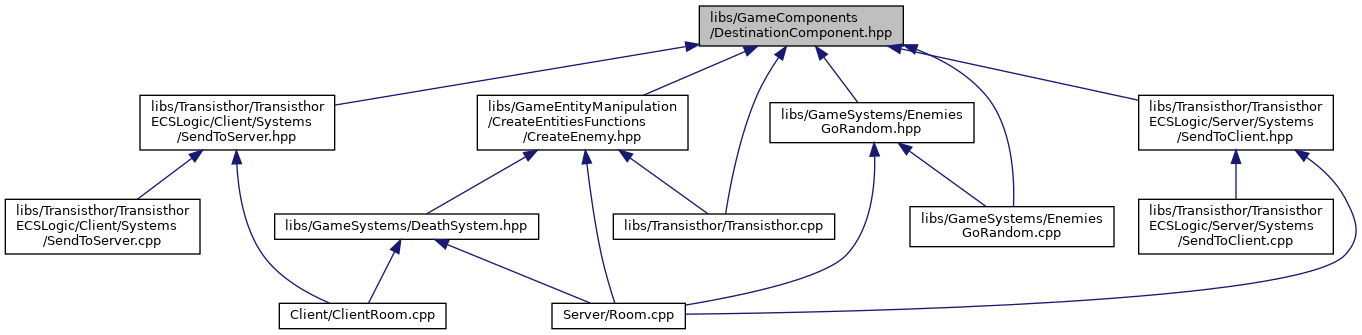
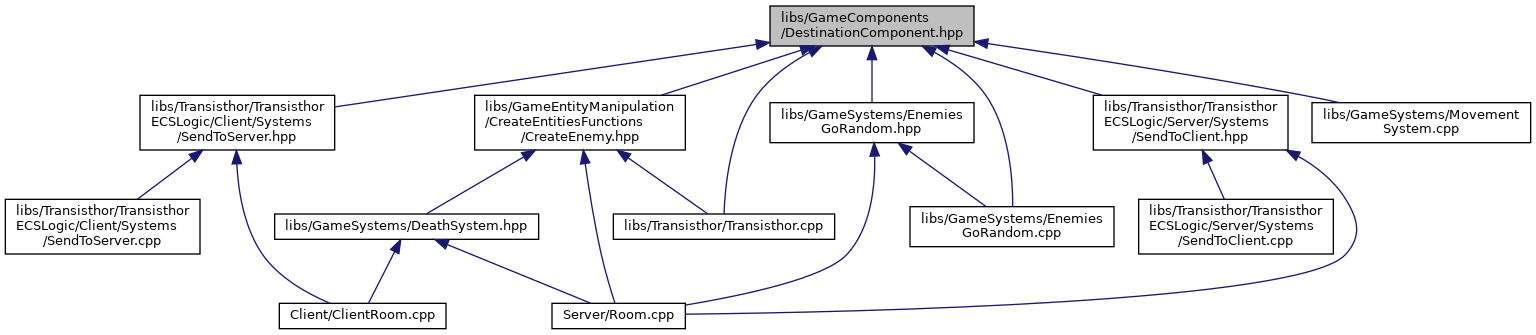
Deploying to gh-pages from @ R-Type-Epitech-Nantes/R-Type@fd5981e4867873d81f6ff740246fc17377577f86 🚀

diff --git a/dir_000016_000012.html b/dir_000016_000012.html
@@ -83,7 +83,7 @@ $(document).ready(function(){initNavTree('dir_667f9d03eae627cf53194c8a15b5bcd6.h
 </div>
 
 <div class="contents">
-<h3>GameSystems &rarr; GameComponents Relation</h3><table class="dirtab"><tr class="dirtab"><th class="dirtab">File in libs/GameSystems</th><th class="dirtab">Includes file in libs/GameComponents</th></tr><tr class="dirtab"><td class="dirtab"><a class="el" href="_collidable_system_8cpp.html">CollidableSystem.cpp</a></td><td class="dirtab"><a class="el" href="_allied_projectile_component_8hpp.html">AlliedProjectileComponent.hpp</a></td></tr><tr class="dirtab"><td class="dirtab"><a class="el" href="_collidable_system_8cpp.html">CollidableSystem.cpp</a></td><td class="dirtab"><a class="el" href="_collidable_component_8hpp.html">CollidableComponent.hpp</a></td></tr><tr class="dirtab"><td class="dirtab"><a class="el" href="_collidable_system_8cpp.html">CollidableSystem.cpp</a></td><td class="dirtab"><a class="el" href="_damage_component_8hpp.html">DamageComponent.hpp</a></td></tr><tr class="dirtab"><td class="dirtab"><a class="el" href="_collidable_system_8cpp.html">CollidableSystem.cpp</a></td><td class="dirtab"><a class="el" href="_enemy_component_8hpp.html">EnemyComponent.hpp</a></td></tr><tr class="dirtab"><td class="dirtab"><a class="el" href="_collidable_system_8cpp.html">CollidableSystem.cpp</a></td><td class="dirtab"><a class="el" href="_enemy_projectile_component_8hpp.html">EnemyProjectileComponent.hpp</a></td></tr><tr class="dirtab"><td class="dirtab"><a class="el" href="_collidable_system_8cpp.html">CollidableSystem.cpp</a></td><td class="dirtab"><a class="el" href="_life_component_8hpp.html">LifeComponent.hpp</a></td></tr><tr class="dirtab"><td class="dirtab"><a class="el" href="_collidable_system_8cpp.html">CollidableSystem.cpp</a></td><td class="dirtab"><a class="el" href="_obstacle_component_8hpp.html">ObstacleComponent.hpp</a></td></tr><tr class="dirtab"><td class="dirtab"><a class="el" href="_collidable_system_8cpp.html">CollidableSystem.cpp</a></td><td class="dirtab"><a class="el" href="_player_component_8hpp.html">PlayerComponent.hpp</a></td></tr><tr class="dirtab"><td class="dirtab"><a class="el" href="_collidable_system_8hpp.html">CollidableSystem.hpp</a></td><td class="dirtab"><a class="el" href="_position_component_8hpp.html">PositionComponent.hpp</a></td></tr><tr class="dirtab"><td class="dirtab"><a class="el" href="_collidable_system_8hpp.html">CollidableSystem.hpp</a></td><td class="dirtab"><a class="el" href="_size_component_8hpp.html">SizeComponent.hpp</a></td></tr><tr class="dirtab"><td class="dirtab"><a class="el" href="_death_life_system_8hpp.html">DeathLifeSystem.hpp</a></td><td class="dirtab"><a class="el" href="_death_component_8hpp.html">DeathComponent.hpp</a></td></tr><tr class="dirtab"><td class="dirtab"><a class="el" href="_death_life_system_8hpp.html">DeathLifeSystem.hpp</a></td><td class="dirtab"><a class="el" href="_life_component_8hpp.html">LifeComponent.hpp</a></td></tr><tr class="dirtab"><td class="dirtab"><a class="el" href="_death_system_8hpp.html">DeathSystem.hpp</a></td><td class="dirtab"><a class="el" href="_death_component_8hpp.html">DeathComponent.hpp</a></td></tr><tr class="dirtab"><td class="dirtab"><a class="el" href="_decrease_life_time_system_8hpp.html">DecreaseLifeTimeSystem.hpp</a></td><td class="dirtab"><a class="el" href="_death_component_8hpp.html">DeathComponent.hpp</a></td></tr><tr class="dirtab"><td class="dirtab"><a class="el" href="_decrease_life_time_system_8hpp.html">DecreaseLifeTimeSystem.hpp</a></td><td class="dirtab"><a class="el" href="_life_time_component_8hpp.html">LifeTimeComponent.hpp</a></td></tr><tr class="dirtab"><td class="dirtab"><a class="el" href="_enemies_go_random_8cpp.html">EnemiesGoRandom.cpp</a></td><td class="dirtab"><a class="el" href="_destination_component_8hpp.html">DestinationComponent.hpp</a></td></tr><tr class="dirtab"><td class="dirtab"><a class="el" href="_enemies_go_random_8cpp.html">EnemiesGoRandom.cpp</a></td><td class="dirtab"><a class="el" href="_enemy_component_8hpp.html">EnemyComponent.hpp</a></td></tr><tr class="dirtab"><td class="dirtab"><a class="el" href="_enemies_go_random_8cpp.html">EnemiesGoRandom.cpp</a></td><td class="dirtab"><a class="el" href="_position_component_8hpp.html">PositionComponent.hpp</a></td></tr><tr class="dirtab"><td class="dirtab"><a class="el" href="_enemies_go_random_8cpp.html">EnemiesGoRandom.cpp</a></td><td class="dirtab"><a class="el" href="_velocity_component_8hpp.html">VelocityComponent.hpp</a></td></tr><tr class="dirtab"><td class="dirtab"><a class="el" href="_enemies_go_random_8hpp.html">EnemiesGoRandom.hpp</a></td><td class="dirtab"><a class="el" href="_destination_component_8hpp.html">DestinationComponent.hpp</a></td></tr><tr class="dirtab"><td class="dirtab"><a class="el" href="_enemies_go_random_8hpp.html">EnemiesGoRandom.hpp</a></td><td class="dirtab"><a class="el" href="_enemy_component_8hpp.html">EnemyComponent.hpp</a></td></tr><tr class="dirtab"><td class="dirtab"><a class="el" href="_enemies_go_random_8hpp.html">EnemiesGoRandom.hpp</a></td><td class="dirtab"><a class="el" href="_position_component_8hpp.html">PositionComponent.hpp</a></td></tr><tr class="dirtab"><td class="dirtab"><a class="el" href="_enemies_go_random_8hpp.html">EnemiesGoRandom.hpp</a></td><td class="dirtab"><a class="el" href="_velocity_component_8hpp.html">VelocityComponent.hpp</a></td></tr><tr class="dirtab"><td class="dirtab"><a class="el" href="_enemy_shoot_system_8cpp.html">EnemyShootSystem.cpp</a></td><td class="dirtab"><a class="el" href="_enemy_component_8hpp.html">EnemyComponent.hpp</a></td></tr><tr class="dirtab"><td class="dirtab"><a class="el" href="_enemy_shoot_system_8cpp.html">EnemyShootSystem.cpp</a></td><td class="dirtab"><a class="el" href="_shooting_frequency_component_8hpp.html">ShootingFrequencyComponent.hpp</a></td></tr><tr class="dirtab"><td class="dirtab"><a class="el" href="_life_time_death_system_8hpp.html">LifeTimeDeathSystem.hpp</a></td><td class="dirtab"><a class="el" href="_death_component_8hpp.html">DeathComponent.hpp</a></td></tr><tr class="dirtab"><td class="dirtab"><a class="el" href="_life_time_death_system_8hpp.html">LifeTimeDeathSystem.hpp</a></td><td class="dirtab"><a class="el" href="_life_time_component_8hpp.html">LifeTimeComponent.hpp</a></td></tr><tr class="dirtab"><td class="dirtab"><a class="el" href="_movement_system_8cpp.html">MovementSystem.cpp</a></td><td class="dirtab"><a class="el" href="_position_component_8hpp.html">PositionComponent.hpp</a></td></tr><tr class="dirtab"><td class="dirtab"><a class="el" href="_movement_system_8cpp.html">MovementSystem.cpp</a></td><td class="dirtab"><a class="el" href="_velocity_component_8hpp.html">VelocityComponent.hpp</a></td></tr><tr class="dirtab"><td class="dirtab"><a class="el" href="_movement_system_8hpp.html">MovementSystem.hpp</a></td><td class="dirtab"><a class="el" href="_position_component_8hpp.html">PositionComponent.hpp</a></td></tr><tr class="dirtab"><td class="dirtab"><a class="el" href="_movement_system_8hpp.html">MovementSystem.hpp</a></td><td class="dirtab"><a class="el" href="_velocity_component_8hpp.html">VelocityComponent.hpp</a></td></tr></table></div><!-- contents -->
+<h3>GameSystems &rarr; GameComponents Relation</h3><table class="dirtab"><tr class="dirtab"><th class="dirtab">File in libs/GameSystems</th><th class="dirtab">Includes file in libs/GameComponents</th></tr><tr class="dirtab"><td class="dirtab"><a class="el" href="_collidable_system_8cpp.html">CollidableSystem.cpp</a></td><td class="dirtab"><a class="el" href="_allied_projectile_component_8hpp.html">AlliedProjectileComponent.hpp</a></td></tr><tr class="dirtab"><td class="dirtab"><a class="el" href="_collidable_system_8cpp.html">CollidableSystem.cpp</a></td><td class="dirtab"><a class="el" href="_collidable_component_8hpp.html">CollidableComponent.hpp</a></td></tr><tr class="dirtab"><td class="dirtab"><a class="el" href="_collidable_system_8cpp.html">CollidableSystem.cpp</a></td><td class="dirtab"><a class="el" href="_damage_component_8hpp.html">DamageComponent.hpp</a></td></tr><tr class="dirtab"><td class="dirtab"><a class="el" href="_collidable_system_8cpp.html">CollidableSystem.cpp</a></td><td class="dirtab"><a class="el" href="_enemy_component_8hpp.html">EnemyComponent.hpp</a></td></tr><tr class="dirtab"><td class="dirtab"><a class="el" href="_collidable_system_8cpp.html">CollidableSystem.cpp</a></td><td class="dirtab"><a class="el" href="_enemy_projectile_component_8hpp.html">EnemyProjectileComponent.hpp</a></td></tr><tr class="dirtab"><td class="dirtab"><a class="el" href="_collidable_system_8cpp.html">CollidableSystem.cpp</a></td><td class="dirtab"><a class="el" href="_life_component_8hpp.html">LifeComponent.hpp</a></td></tr><tr class="dirtab"><td class="dirtab"><a class="el" href="_collidable_system_8cpp.html">CollidableSystem.cpp</a></td><td class="dirtab"><a class="el" href="_obstacle_component_8hpp.html">ObstacleComponent.hpp</a></td></tr><tr class="dirtab"><td class="dirtab"><a class="el" href="_collidable_system_8cpp.html">CollidableSystem.cpp</a></td><td class="dirtab"><a class="el" href="_player_component_8hpp.html">PlayerComponent.hpp</a></td></tr><tr class="dirtab"><td class="dirtab"><a class="el" href="_collidable_system_8hpp.html">CollidableSystem.hpp</a></td><td class="dirtab"><a class="el" href="_position_component_8hpp.html">PositionComponent.hpp</a></td></tr><tr class="dirtab"><td class="dirtab"><a class="el" href="_collidable_system_8hpp.html">CollidableSystem.hpp</a></td><td class="dirtab"><a class="el" href="_size_component_8hpp.html">SizeComponent.hpp</a></td></tr><tr class="dirtab"><td class="dirtab"><a class="el" href="_death_life_system_8hpp.html">DeathLifeSystem.hpp</a></td><td class="dirtab"><a class="el" href="_death_component_8hpp.html">DeathComponent.hpp</a></td></tr><tr class="dirtab"><td class="dirtab"><a class="el" href="_death_life_system_8hpp.html">DeathLifeSystem.hpp</a></td><td class="dirtab"><a class="el" href="_life_component_8hpp.html">LifeComponent.hpp</a></td></tr><tr class="dirtab"><td class="dirtab"><a class="el" href="_death_system_8hpp.html">DeathSystem.hpp</a></td><td class="dirtab"><a class="el" href="_death_component_8hpp.html">DeathComponent.hpp</a></td></tr><tr class="dirtab"><td class="dirtab"><a class="el" href="_decrease_life_time_system_8hpp.html">DecreaseLifeTimeSystem.hpp</a></td><td class="dirtab"><a class="el" href="_death_component_8hpp.html">DeathComponent.hpp</a></td></tr><tr class="dirtab"><td class="dirtab"><a class="el" href="_decrease_life_time_system_8hpp.html">DecreaseLifeTimeSystem.hpp</a></td><td class="dirtab"><a class="el" href="_life_time_component_8hpp.html">LifeTimeComponent.hpp</a></td></tr><tr class="dirtab"><td class="dirtab"><a class="el" href="_enemies_go_random_8cpp.html">EnemiesGoRandom.cpp</a></td><td class="dirtab"><a class="el" href="_destination_component_8hpp.html">DestinationComponent.hpp</a></td></tr><tr class="dirtab"><td class="dirtab"><a class="el" href="_enemies_go_random_8cpp.html">EnemiesGoRandom.cpp</a></td><td class="dirtab"><a class="el" href="_enemy_component_8hpp.html">EnemyComponent.hpp</a></td></tr><tr class="dirtab"><td class="dirtab"><a class="el" href="_enemies_go_random_8cpp.html">EnemiesGoRandom.cpp</a></td><td class="dirtab"><a class="el" href="_position_component_8hpp.html">PositionComponent.hpp</a></td></tr><tr class="dirtab"><td class="dirtab"><a class="el" href="_enemies_go_random_8cpp.html">EnemiesGoRandom.cpp</a></td><td class="dirtab"><a class="el" href="_velocity_component_8hpp.html">VelocityComponent.hpp</a></td></tr><tr class="dirtab"><td class="dirtab"><a class="el" href="_enemies_go_random_8hpp.html">EnemiesGoRandom.hpp</a></td><td class="dirtab"><a class="el" href="_destination_component_8hpp.html">DestinationComponent.hpp</a></td></tr><tr class="dirtab"><td class="dirtab"><a class="el" href="_enemies_go_random_8hpp.html">EnemiesGoRandom.hpp</a></td><td class="dirtab"><a class="el" href="_enemy_component_8hpp.html">EnemyComponent.hpp</a></td></tr><tr class="dirtab"><td class="dirtab"><a class="el" href="_enemies_go_random_8hpp.html">EnemiesGoRandom.hpp</a></td><td class="dirtab"><a class="el" href="_position_component_8hpp.html">PositionComponent.hpp</a></td></tr><tr class="dirtab"><td class="dirtab"><a class="el" href="_enemies_go_random_8hpp.html">EnemiesGoRandom.hpp</a></td><td class="dirtab"><a class="el" href="_velocity_component_8hpp.html">VelocityComponent.hpp</a></td></tr><tr class="dirtab"><td class="dirtab"><a class="el" href="_enemy_shoot_system_8cpp.html">EnemyShootSystem.cpp</a></td><td class="dirtab"><a class="el" href="_enemy_component_8hpp.html">EnemyComponent.hpp</a></td></tr><tr class="dirtab"><td class="dirtab"><a class="el" href="_enemy_shoot_system_8cpp.html">EnemyShootSystem.cpp</a></td><td class="dirtab"><a class="el" href="_shooting_frequency_component_8hpp.html">ShootingFrequencyComponent.hpp</a></td></tr><tr class="dirtab"><td class="dirtab"><a class="el" href="_life_time_death_system_8hpp.html">LifeTimeDeathSystem.hpp</a></td><td class="dirtab"><a class="el" href="_death_component_8hpp.html">DeathComponent.hpp</a></td></tr><tr class="dirtab"><td class="dirtab"><a class="el" href="_life_time_death_system_8hpp.html">LifeTimeDeathSystem.hpp</a></td><td class="dirtab"><a class="el" href="_life_time_component_8hpp.html">LifeTimeComponent.hpp</a></td></tr><tr class="dirtab"><td class="dirtab"><a class="el" href="_movement_system_8cpp.html">MovementSystem.cpp</a></td><td class="dirtab"><a class="el" href="_destination_component_8hpp.html">DestinationComponent.hpp</a></td></tr><tr class="dirtab"><td class="dirtab"><a class="el" href="_movement_system_8cpp.html">MovementSystem.cpp</a></td><td class="dirtab"><a class="el" href="_enemy_component_8hpp.html">EnemyComponent.hpp</a></td></tr><tr class="dirtab"><td class="dirtab"><a class="el" href="_movement_system_8cpp.html">MovementSystem.cpp</a></td><td class="dirtab"><a class="el" href="_player_component_8hpp.html">PlayerComponent.hpp</a></td></tr><tr class="dirtab"><td class="dirtab"><a class="el" href="_movement_system_8cpp.html">MovementSystem.cpp</a></td><td class="dirtab"><a class="el" href="_position_component_8hpp.html">PositionComponent.hpp</a></td></tr><tr class="dirtab"><td class="dirtab"><a class="el" href="_movement_system_8cpp.html">MovementSystem.cpp</a></td><td class="dirtab"><a class="el" href="_velocity_component_8hpp.html">VelocityComponent.hpp</a></td></tr><tr class="dirtab"><td class="dirtab"><a class="el" href="_movement_system_8hpp.html">MovementSystem.hpp</a></td><td class="dirtab"><a class="el" href="_position_component_8hpp.html">PositionComponent.hpp</a></td></tr><tr class="dirtab"><td class="dirtab"><a class="el" href="_movement_system_8hpp.html">MovementSystem.hpp</a></td><td class="dirtab"><a class="el" href="_velocity_component_8hpp.html">VelocityComponent.hpp</a></td></tr></table></div><!-- contents -->
 </div><!-- doc-content -->
 <!-- start footer part -->
 <div id="nav-path" class="navpath"><!-- id is needed for treeview function! -->

diff --git a/_movement_system_8cpp.html b/_movement_system_8cpp.html
@@ -90,42 +90,48 @@ $(document).ready(function(){initNavTree('_movement_system_8cpp.html',''); initR
 <div class="textblock"><code>#include &quot;<a class="el" href="_movement_system_8hpp_source.html">MovementSystem.hpp</a>&quot;</code><br />
 <code>#include &quot;<a class="el" href="_position_component_8hpp_source.html">GameComponents/PositionComponent.hpp</a>&quot;</code><br />
 <code>#include &quot;<a class="el" href="_velocity_component_8hpp_source.html">GameComponents/VelocityComponent.hpp</a>&quot;</code><br />
+<code>#include &quot;<a class="el" href="_player_component_8hpp_source.html">GameComponents/PlayerComponent.hpp</a>&quot;</code><br />
+<code>#include &quot;<a class="el" href="_enemy_component_8hpp_source.html">GameComponents/EnemyComponent.hpp</a>&quot;</code><br />
+<code>#include &quot;<a class="el" href="_destination_component_8hpp_source.html">GameComponents/DestinationComponent.hpp</a>&quot;</code><br />
 <code>#include &quot;<a class="el" href="_game_clock_8hpp_source.html">GameSharedResources/GameClock.hpp</a>&quot;</code><br />
 </div><div class="textblock"><div class="dynheader">
 Include dependency graph for MovementSystem.cpp:</div>
 <div class="dyncontent">
 <div class="center"><img src="_movement_system_8cpp__incl.png" border="0" usemap="#libs_2_game_systems_2_movement_system_8cpp" alt=""/></div>
 <map name="libs_2_game_systems_2_movement_system_8cpp" id="libs_2_game_systems_2_movement_system_8cpp">
-<area shape="rect" title=" " alt="" coords="386,5,605,47"/>
-<area shape="rect" href="_movement_system_8hpp.html" title=" " alt="" coords="349,102,519,129"/>
-<area shape="rect" href="_position_component_8hpp.html" title=" " alt="" coords="17,184,320,211"/>
-<area shape="rect" href="_velocity_component_8hpp.html" title=" " alt="" coords="344,184,647,211"/>
-<area shape="rect" href="_game_clock_8hpp.html" title=" " alt="" coords="1169,95,1342,136"/>
-<area shape="rect" href="_world_8hpp.html" title=" " alt="" coords="722,184,850,211"/>
-<area shape="rect" href="_component_8hpp.html" title=" " alt="" coords="5,333,209,360"/>
-<area shape="rect" title=" " alt="" coords="74,408,141,435"/>
-<area shape="rect" title=" " alt="" coords="207,408,287,435"/>
-<area shape="rect" title=" " alt="" coords="751,333,821,360"/>
-<area shape="rect" title=" " alt="" coords="1486,483,1537,509"/>
-<area shape="rect" title=" " alt="" coords="819,408,897,435"/>
-<area shape="rect" title=" " alt="" coords="285,333,372,360"/>
-<area shape="rect" title=" " alt="" coords="1060,483,1123,509"/>
-<area shape="rect" href="_entity_8hpp.html" title=" " alt="" coords="542,259,670,285"/>
-<area shape="rect" title=" " alt="" coords="603,333,727,360"/>
-<area shape="rect" href="_resource_8hpp.html" title=" " alt="" coords="1537,259,1712,285"/>
-<area shape="rect" href="_system_8hpp.html" title=" " alt="" coords="366,259,518,285"/>
-<area shape="rect" href="_transisthor_8hpp.html" title=" " alt="" coords="922,259,1117,285"/>
-<area shape="rect" title=" " alt="" coords="447,333,527,360"/>
-<area shape="rect" href="_communicator_8hpp.html" title=" " alt="" coords="897,333,1142,360"/>
-<area shape="rect" href="_error_8hpp.html" title=" " alt="" coords="1310,333,1425,360"/>
-<area shape="rect" href="_client_8hpp.html" title=" " alt="" coords="947,483,1035,509"/>
-<area shape="rect" href="_receiver_8hpp.html" title=" " alt="" coords="1193,408,1299,435"/>
-<area shape="rect" href="_sender_8hpp.html" title=" " alt="" coords="972,408,1067,435"/>
-<area shape="rect" title=" " alt="" coords="1190,557,1249,584"/>
-<area shape="rect" title=" " alt="" coords="1147,483,1270,509"/>
-<area shape="rect" title=" " alt="" coords="1294,483,1411,509"/>
-<area shape="rect" title=" " alt="" coords="1324,408,1411,435"/>
-<area shape="rect" title=" " alt="" coords="1293,184,1359,211"/>
+<area shape="rect" title=" " alt="" coords="597,5,815,47"/>
+<area shape="rect" href="_movement_system_8hpp.html" title=" " alt="" coords="621,102,791,129"/>
+<area shape="rect" href="_position_component_8hpp.html" title=" " alt="" coords="568,184,871,211"/>
+<area shape="rect" href="_velocity_component_8hpp.html" title=" " alt="" coords="241,184,544,211"/>
+<area shape="rect" href="_player_component_8hpp.html" title=" " alt="" coords="895,184,1186,211"/>
+<area shape="rect" href="_enemy_component_8hpp.html" title=" " alt="" coords="5,102,300,129"/>
+<area shape="rect" href="_destination_component_8hpp.html" title=" " alt="" coords="324,95,547,136"/>
+<area shape="rect" href="_game_clock_8hpp.html" title=" " alt="" coords="1505,95,1678,136"/>
+<area shape="rect" href="_world_8hpp.html" title=" " alt="" coords="1210,184,1338,211"/>
+<area shape="rect" href="_component_8hpp.html" title=" " alt="" coords="360,333,564,360"/>
+<area shape="rect" title=" " alt="" coords="429,408,495,435"/>
+<area shape="rect" title=" " alt="" coords="562,408,642,435"/>
+<area shape="rect" title=" " alt="" coords="737,333,808,360"/>
+<area shape="rect" title=" " alt="" coords="1651,483,1702,509"/>
+<area shape="rect" title=" " alt="" coords="1095,408,1173,435"/>
+<area shape="rect" title=" " alt="" coords="1039,333,1125,360"/>
+<area shape="rect" title=" " alt="" coords="1164,483,1227,509"/>
+<area shape="rect" href="_entity_8hpp.html" title=" " alt="" coords="931,259,1059,285"/>
+<area shape="rect" title=" " alt="" coords="1149,333,1273,360"/>
+<area shape="rect" href="_resource_8hpp.html" title=" " alt="" coords="1817,259,1992,285"/>
+<area shape="rect" href="_system_8hpp.html" title=" " alt="" coords="639,259,791,285"/>
+<area shape="rect" href="_transisthor_8hpp.html" title=" " alt="" coords="1374,259,1569,285"/>
+<area shape="rect" title=" " alt="" coords="883,333,963,360"/>
+<area shape="rect" href="_communicator_8hpp.html" title=" " alt="" coords="1349,333,1594,360"/>
+<area shape="rect" href="_error_8hpp.html" title=" " alt="" coords="1618,333,1733,360"/>
+<area shape="rect" href="_client_8hpp.html" title=" " alt="" coords="1251,483,1339,509"/>
+<area shape="rect" href="_receiver_8hpp.html" title=" " alt="" coords="1418,408,1525,435"/>
+<area shape="rect" href="_sender_8hpp.html" title=" " alt="" coords="1248,408,1343,435"/>
+<area shape="rect" title=" " alt="" coords="1487,557,1546,584"/>
+<area shape="rect" title=" " alt="" coords="1505,483,1627,509"/>
+<area shape="rect" title=" " alt="" coords="1363,483,1481,509"/>
+<area shape="rect" title=" " alt="" coords="1604,408,1691,435"/>
+<area shape="rect" title=" " alt="" coords="1558,184,1625,211"/>
 </map>
 </div>
 </div></div><!-- contents -->

diff --git a/_enemies_go_random_8cpp.html b/_enemies_go_random_8cpp.html
@@ -141,7 +141,7 @@ Macros</h2></td></tr>
 <tr class="separator:a75532d5fbba4f4dcc6fd0002ebc80c9f"><td class="memSeparator" colspan="2">&#160;</td></tr>
 <tr class="memitem:ad060e4083b2ac88393532f2c2de5524c"><td class="memItemLeft" align="right" valign="top">#define&#160;</td><td class="memItemRight" valign="bottom"><a class="el" href="_enemies_go_random_8cpp.html#ad060e4083b2ac88393532f2c2de5524c">MAXIMUM_WIDTH</a>&#160;&#160;&#160;1700</td></tr>
 <tr class="separator:ad060e4083b2ac88393532f2c2de5524c"><td class="memSeparator" colspan="2">&#160;</td></tr>
-<tr class="memitem:a985e833993add5f9e2deac2f98506f59"><td class="memItemLeft" align="right" valign="top">#define&#160;</td><td class="memItemRight" valign="bottom"><a class="el" href="_enemies_go_random_8cpp.html#a985e833993add5f9e2deac2f98506f59">MINIMUM_HEIGTH</a>&#160;&#160;&#160;0</td></tr>
+<tr class="memitem:a985e833993add5f9e2deac2f98506f59"><td class="memItemLeft" align="right" valign="top">#define&#160;</td><td class="memItemRight" valign="bottom"><a class="el" href="_enemies_go_random_8cpp.html#a985e833993add5f9e2deac2f98506f59">MINIMUM_HEIGTH</a>&#160;&#160;&#160;200</td></tr>
 <tr class="separator:a985e833993add5f9e2deac2f98506f59"><td class="memSeparator" colspan="2">&#160;</td></tr>
 <tr class="memitem:a90c13517682d80ec21e54d760c403858"><td class="memItemLeft" align="right" valign="top">#define&#160;</td><td class="memItemRight" valign="bottom"><a class="el" href="_enemies_go_random_8cpp.html#a90c13517682d80ec21e54d760c403858">MAXIMUM_HEIGTH</a>&#160;&#160;&#160;800</td></tr>
 <tr class="separator:a90c13517682d80ec21e54d760c403858"><td class="memSeparator" colspan="2">&#160;</td></tr>
@@ -182,7 +182,7 @@ Macros</h2></td></tr>
 <div class="memproto">
       <table class="memname">
         <tr>
-          <td class="memname">#define MINIMUM_HEIGTH&#160;&#160;&#160;0</td>
+          <td class="memname">#define MINIMUM_HEIGTH&#160;&#160;&#160;200</td>
         </tr>
       </table>
 </div><div class="memdoc">

diff --git a/_enemy_component_8hpp.html b/_enemy_component_8hpp.html
@@ -107,15 +107,16 @@ This graph shows which files directly or indirectly include this file:</div>
 <div class="dyncontent">
 <div class="center"><img src="_enemy_component_8hpp__dep__incl.png" border="0" usemap="#libs_2_game_components_2_enemy_component_8hppdep" alt=""/></div>
 <map name="libs_2_game_components_2_enemy_component_8hppdep" id="libs_2_game_components_2_enemy_component_8hppdep">
-<area shape="rect" title=" " alt="" coords="962,5,1137,47"/>
+<area shape="rect" title=" " alt="" coords="1033,5,1207,47"/>
 <area shape="rect" href="_create_enemy_8hpp.html" title=" " alt="" coords="276,95,487,151"/>
 <area shape="rect" href="_room_8cpp.html" title=" " alt="" coords="391,288,524,315"/>
 <area shape="rect" href="_collidable_system_8cpp.html" title=" " alt="" coords="640,102,853,143"/>
 <area shape="rect" href="_enemies_go_random_8hpp.html" title=" " alt="" coords="878,102,1082,143"/>
 <area shape="rect" href="_enemies_go_random_8cpp.html" title=" " alt="" coords="947,199,1151,240"/>
 <area shape="rect" href="_enemy_shoot_system_8cpp.html" title=" " alt="" coords="1158,102,1389,143"/>
-<area shape="rect" href="_send_newly_created_to_server_8cpp.html" title=" " alt="" coords="1413,95,1645,151"/>
-<area shape="rect" href="_send_newly_created_to_clients_8cpp.html" title=" " alt="" coords="1670,95,1906,151"/>
+<area shape="rect" href="_movement_system_8cpp.html" title=" " alt="" coords="1413,102,1632,143"/>
+<area shape="rect" href="_send_newly_created_to_server_8cpp.html" title=" " alt="" coords="1656,95,1888,151"/>
+<area shape="rect" href="_send_newly_created_to_clients_8cpp.html" title=" " alt="" coords="1913,95,2149,151"/>
 <area shape="rect" href="_death_system_8hpp.html" title=" " alt="" coords="5,206,269,233"/>
 <area shape="rect" href="_transisthor_8cpp.html" title=" " alt="" coords="344,206,565,233"/>
 <area shape="rect" href="_client_room_8cpp.html" title=" " alt="" coords="54,288,221,315"/>

diff --git a/_death_system_8hpp_source.html b/_death_system_8hpp_source.html
@@ -111,7 +111,7 @@ $(document).ready(function(){initNavTree('_death_system_8hpp_source.html',''); i
 <div class="line"><a name="l00025"></a><span class="lineno">   25</span>&#160; </div>
 <div class="line"><a name="l00026"></a><span class="lineno">   26</span>&#160;            <span class="keyword">auto</span> death = [&amp;world](std::shared_ptr&lt;ecs::Entity&gt; entityPtr) {</div>
 <div class="line"><a name="l00027"></a><span class="lineno">   27</span>&#160;                <span class="keywordflow">if</span> (entityPtr-&gt;contains&lt;<a class="code" href="classecs_1_1_enemy.html">Enemy</a>&gt;() == <span class="keyword">true</span>)</div>
-<div class="line"><a name="l00028"></a><span class="lineno">   28</span>&#160;                    <a class="code" href="namespaceecs.html#a86973d2e864cb657a1b49f4c651aa880">createNewEnemyRandom</a>(world, 1, 1, 1, 4, 4, 100, 10, 5, <span class="stringliteral">&quot;&quot;</span>,</div>
+<div class="line"><a name="l00028"></a><span class="lineno">   28</span>&#160;                    <a class="code" href="namespaceecs.html#a86973d2e864cb657a1b49f4c651aa880">createNewEnemyRandom</a>(world, 0, 0, 1, 4, 4, 100, 10, 5, <span class="stringliteral">&quot;&quot;</span>,</div>
 <div class="line"><a name="l00029"></a><span class="lineno">   29</span>&#160;                        world.getResource&lt;<a class="code" href="class_networkable_id_generator.html">NetworkableIdGenerator</a>&gt;().<a class="code" href="class_networkable_id_generator.html#a04ef8f7002f4f9402ddf15b95e0ef3b9">generateNewNetworkableId</a>());</div>
 <div class="line"><a name="l00030"></a><span class="lineno">   30</span>&#160;                world.removeEntity(entityPtr-&gt;getId());</div>
 <div class="line"><a name="l00031"></a><span class="lineno">   31</span>&#160;            };</div>

diff --git a/_movement_system_8hpp_source.html b/_movement_system_8hpp_source.html
@@ -112,7 +112,7 @@ $(document).ready(function(){initNavTree('_movement_system_8hpp_source.html','')
 </div><!-- fragment --></div><!-- contents -->
 </div><!-- doc-content -->
 <div class="ttc" id="a_world_8hpp_html"><div class="ttname"><a href="_world_8hpp.html">World.hpp</a></div></div>
-<div class="ttc" id="astructecs_1_1_movement_html_a3956c2d126f291e5d0949b9c720ea86c"><div class="ttname"><a href="structecs_1_1_movement.html#a3956c2d126f291e5d0949b9c720ea86c">ecs::Movement::run</a></div><div class="ttdeci">void run(World &amp;world) override final</div><div class="ttdoc">Run the Movement System.</div><div class="ttdef"><b>Definition:</b> MovementSystem.cpp:15</div></div>
+<div class="ttc" id="astructecs_1_1_movement_html_a3956c2d126f291e5d0949b9c720ea86c"><div class="ttname"><a href="structecs_1_1_movement.html#a3956c2d126f291e5d0949b9c720ea86c">ecs::Movement::run</a></div><div class="ttdeci">void run(World &amp;world) override final</div><div class="ttdoc">Run the Movement System.</div><div class="ttdef"><b>Definition:</b> MovementSystem.cpp:18</div></div>
 <div class="ttc" id="aclassecs_1_1_world_html"><div class="ttname"><a href="classecs_1_1_world.html">ecs::World</a></div><div class="ttdef"><b>Definition:</b> World.hpp:31</div></div>
 <div class="ttc" id="astructecs_1_1_movement_html"><div class="ttname"><a href="structecs_1_1_movement.html">ecs::Movement</a></div><div class="ttdoc">This is the Movement system. This system can move any entities which contains a Position and a Veloci...</div><div class="ttdef"><b>Definition:</b> MovementSystem.hpp:19</div></div>
 <div class="ttc" id="aclassecs_1_1_system_html"><div class="ttname"><a href="classecs_1_1_system.html">ecs::System</a></div><div class="ttdef"><b>Definition:</b> System.hpp:19</div></div>

diff --git a/_destination_component_8hpp.html b/_destination_component_8hpp.html
@@ -107,13 +107,14 @@ This graph shows which files directly or indirectly include this file:</div>
 <div class="dyncontent">
 <div class="center"><img src="_destination_component_8hpp__dep__incl.png" border="0" usemap="#libs_2_game_components_2_destination_component_8hppdep" alt=""/></div>
 <map name="libs_2_game_components_2_destination_component_8hppdep" id="libs_2_game_components_2_destination_component_8hppdep">
-<area shape="rect" title=" " alt="" coords="699,5,903,47"/>
-<area shape="rect" href="_create_enemy_8hpp.html" title=" " alt="" coords="477,95,688,151"/>
+<area shape="rect" title=" " alt="" coords="770,5,974,47"/>
+<area shape="rect" href="_create_enemy_8hpp.html" title=" " alt="" coords="475,95,685,151"/>
 <area shape="rect" href="_transisthor_8cpp.html" title=" " alt="" coords="613,213,835,240"/>
 <area shape="rect" href="_enemies_go_random_8hpp.html" title=" " alt="" coords="770,102,974,143"/>
 <area shape="rect" href="_enemies_go_random_8cpp.html" title=" " alt="" coords="910,206,1114,247"/>
+<area shape="rect" href="_movement_system_8cpp.html" title=" " alt="" coords="1312,102,1531,143"/>
 <area shape="rect" href="_send_to_server_8hpp.html" title=" " alt="" coords="140,95,335,151"/>
-<area shape="rect" href="_send_to_client_8hpp.html" title=" " alt="" coords="1139,95,1333,151"/>
+<area shape="rect" href="_send_to_client_8hpp.html" title=" " alt="" coords="1093,95,1288,151"/>
 <area shape="rect" href="_death_system_8hpp.html" title=" " alt="" coords="275,213,539,240"/>
 <area shape="rect" href="_room_8cpp.html" title=" " alt="" coords="552,303,685,329"/>
 <area shape="rect" href="_client_room_8cpp.html" title=" " alt="" coords="279,303,446,329"/>

diff --git a/_player_component_8hpp.html b/_player_component_8hpp.html
@@ -107,12 +107,13 @@ This graph shows which files directly or indirectly include this file:</div>
 <div class="dyncontent">
 <div class="center"><img src="_player_component_8hpp__dep__incl.png" border="0" usemap="#libs_2_game_components_2_player_component_8hppdep" alt=""/></div>
 <map name="libs_2_game_components_2_player_component_8hppdep" id="libs_2_game_components_2_player_component_8hppdep">
-<area shape="rect" title=" " alt="" coords="613,5,784,47"/>
+<area shape="rect" title=" " alt="" coords="731,5,901,47"/>
 <area shape="rect" href="_create_player_8hpp.html" title=" " alt="" coords="111,95,321,151"/>
 <area shape="rect" href="_collidable_system_8cpp.html" title=" " alt="" coords="345,102,559,143"/>
-<area shape="rect" href="_send_newly_created_to_server_8cpp.html" title=" " alt="" coords="583,95,815,151"/>
-<area shape="rect" href="_send_newly_created_to_clients_8cpp.html" title=" " alt="" coords="839,95,1075,151"/>
-<area shape="rect" href="_client_room_8cpp.html" title=" " alt="" coords="1099,109,1266,136"/>
+<area shape="rect" href="_movement_system_8cpp.html" title=" " alt="" coords="583,102,801,143"/>
+<area shape="rect" href="_send_newly_created_to_server_8cpp.html" title=" " alt="" coords="825,95,1057,151"/>
+<area shape="rect" href="_send_newly_created_to_clients_8cpp.html" title=" " alt="" coords="1082,95,1318,151"/>
+<area shape="rect" href="_client_room_8cpp.html" title=" " alt="" coords="1342,109,1509,136"/>
 <area shape="rect" href="_transisthor_8cpp.html" title=" " alt="" coords="5,199,227,225"/>
 <area shape="rect" href="_room_8cpp.html" title=" " alt="" coords="251,199,384,225"/>
 </map>

diff --git a/dir_667f9d03eae627cf53194c8a15b5bcd6.html b/dir_667f9d03eae627cf53194c8a15b5bcd6.html
@@ -98,7 +98,7 @@ Directory dependency graph for GameSystems:</div>
 <area shape="rect" href="dir_95f5c87b548473d5a6fa253149f86c32.html" title="GameEntityManipulation" alt="" coords="125,244,309,292"/>
 <area shape="rect" href="dir_000016_000013.html" title="2" alt="" coords="199,216,208,231"/>
 <area shape="rect" href="dir_cd2ecf0cde374cecaf1d6125b0769103.html" title="GameComponents" alt="" coords="66,340,209,388"/>
-<area shape="rect" href="dir_000016_000012.html" title="31" alt="" coords="102,313,119,328"/>
+<area shape="rect" href="dir_000016_000012.html" title="34" alt="" coords="102,313,119,328"/>
 <area shape="rect" href="dir_c08c1cb438cabecb5ea7c9779f63ac3b.html" title="GameSharedResources" alt="" coords="284,340,457,388"/>
 <area shape="rect" href="dir_000016_000015.html" title="5" alt="" coords="363,313,373,327"/>
 <area shape="rect" href="dir_ee0526d395d6e0f4a61b0d3fd4728c02.html" title="ECS" alt="" coords="40,436,112,484"/>

diff --git a/dir_6719ab1f1f7655efc2fa43f7eb574fd1.html b/dir_6719ab1f1f7655efc2fa43f7eb574fd1.html
@@ -114,7 +114,7 @@ Directory dependency graph for libs:</div>
 <area shape="rect" href="dir_000015_000005.html" title="2" alt="" coords="393,498,402,512"/>
 <area shape="rect" href="dir_667f9d03eae627cf53194c8a15b5bcd6.html" title="GameSystems" alt="" coords="239,27,356,75"/>
 <area shape="rect" href="dir_000016_000005.html" title="9" alt="" coords="283,515,292,529"/>
-<area shape="rect" href="dir_000016_000012.html" title="31" alt="" coords="268,290,286,305"/>
+<area shape="rect" href="dir_000016_000012.html" title="34" alt="" coords="268,290,286,305"/>
 <area shape="rect" href="dir_000016_000013.html" title="2" alt="" coords="335,192,345,206"/>
 <area shape="rect" href="dir_000016_000015.html" title="5" alt="" coords="524,288,534,302"/>
 <area shape="rect" href="dir_000016_000020.html" title="2" alt="" coords="381,98,391,112"/>
